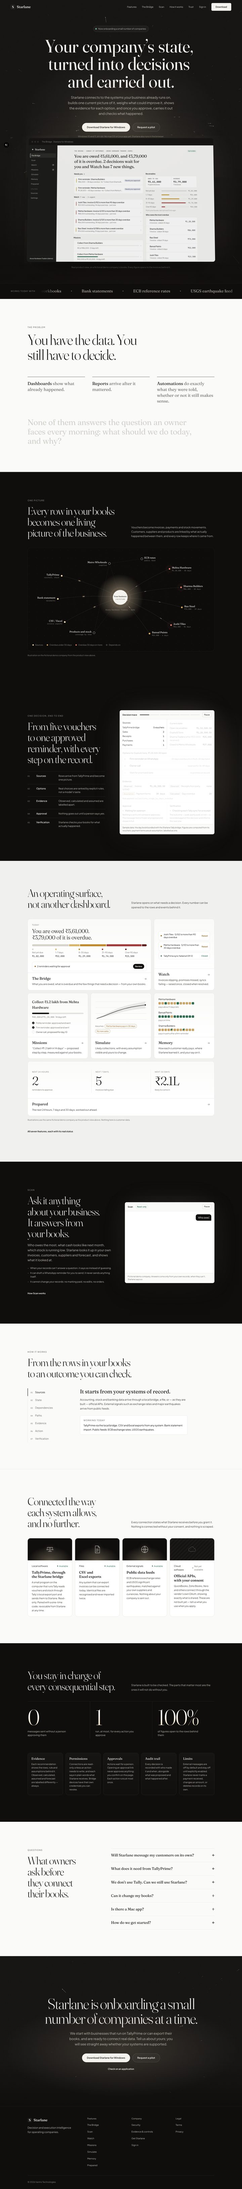
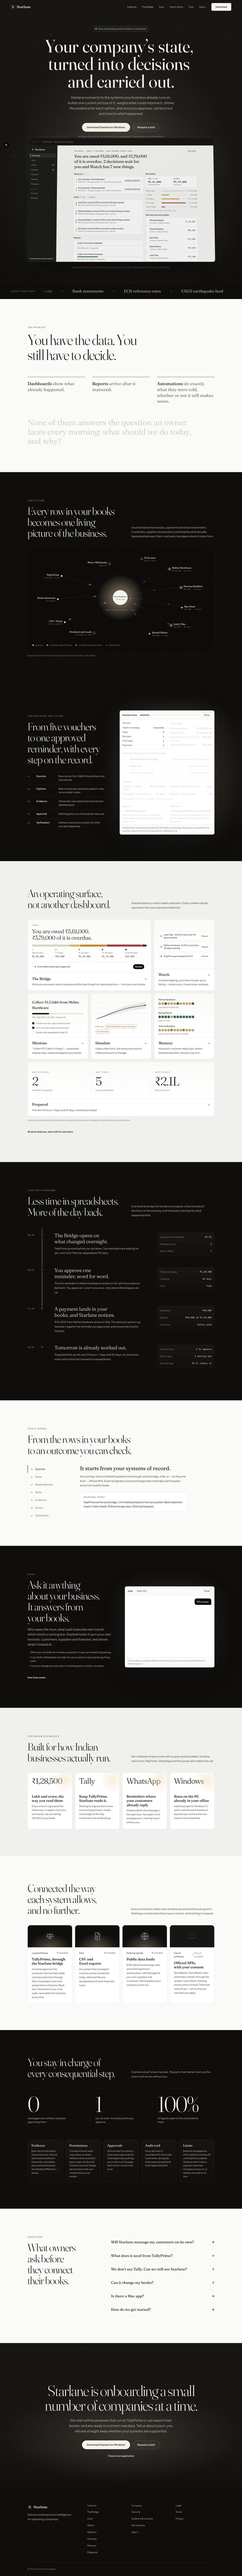
Landing: a day with Starlane, built for Indian businesses, counting trust numbers
Adds an illustrative-day timeline whose spine fills on scroll, a section on
lakh/crore amounts, TallyPrime, WhatsApp and Windows, trust numbers that count
up as they come into view, and a pointer parallax on the hero cards. Moves Scan
after How it works so light and dark sections alternate.

Claude-Session: https://claude.ai/code/session_01JbjFXTHGns6nadKYWs8caj

diff --git a/app/page.tsx b/app/page.tsx
@@ -12,13 +12,15 @@ import { StarField } from "@/components/marketing/landing/StarField";
 import { Reveal } from "@/components/marketing/landing/Reveal";
 import { HeroCards } from "@/components/marketing/landing/HeroCards";
 import { BusinessGraph } from "@/components/marketing/landing/BusinessGraph";
+import { Morning } from "@/components/marketing/landing/Morning";
+import { CountUp } from "@/components/marketing/landing/CountUp";
 import { BridgeViz, WatchViz, MissionsViz, SimulateViz, MemoryViz, PreparedViz } from "@/components/marketing/landing/SurfaceVisuals";
 
-// Starlane — public landing. A dark, cinematic frame (hero, decision, Scan,
-// controls, access) around light working sections (problem, surfaces, how it
-// thinks, connections), one argument throughout:
-//   hero + real product, what it works with, problem, one decision end to end,
-//   surfaces, Scan, how it thinks, connection, trust and control, access.
+// Starlane — public landing. A dark, cinematic frame around light working
+// sections, one argument throughout: hero + real product, what it works with,
+// the problem, one picture of the business, one decision end to end, the
+// surfaces, a day with Starlane, how it thinks, Scan, built for Indian
+// businesses, connection, trust and control, questions, access.
 // Everything shown is either the real product, the real connector list, or
 // sample data that is labelled as such. No logos, testimonials or metrics.
 
@@ -88,12 +90,19 @@ const FAQ = [
   { q: "How do we get started?", a: "Starlane is onboarding a small number of companies at a time, starting with businesses that run on TallyPrime or can export their books. Request a pilot and you will see straight away whether your systems are supported." },
 ];
 
+const INDIA = [
+  { k: "₹1,28,500", h: "Lakh and crore, the way you read them", b: "Every amount is grouped the Indian way, in rupees, from your own books. No converting 128,500 in your head." },
+  { k: "Tally", h: "Keep TallyPrime. Starlane reads it.", b: "Nothing to migrate and no new accounting software. A read-only bridge on the Tally computer is the whole setup." },
+  { k: "WhatsApp", h: "Reminders where your customers already reply", b: "Starlane drafts the message in the right tone. You read it in full and approve it; nothing is sent without you." },
+  { k: "Windows", h: "Runs on the PC already in your office", b: "A desktop app for Windows 10 and 11, and the same Starlane in any browser, so the owner can check in from anywhere." },
+];
+
 const SOURCES = ["TallyPrime", "CSV exports", "Excel workbooks", "Bank statements", "ECB reference rates", "USGS earthquake feed", "WhatsApp drafts, sent only on approval", "Purchase history", "Stock and products"];
 
 const PROMISES = [
-  { n: "0", l: "messages sent without a person approving them" },
-  { n: "1", l: "run, at most, for every action you approve" },
-  { n: "100%", l: "of figures open to the rows behind them" },
+  { n: 0, s: "", l: "messages sent without a person approving them" },
+  { n: 1, s: "", l: "run, at most, for every action you approve" },
+  { n: 100, s: "%", l: "of figures open to the rows behind them" },
 ];
 
 const CONNECT_ICONS: Record<string, React.ReactNode> = {
@@ -168,7 +177,7 @@ export default function LandingPage() {
           </div>
         </section>
 
-        {/* 3b — One picture of the business */}
+        {/* 4 — One picture of the business */}
         <section className="sl-dark slh-section slh-graph" aria-labelledby="graph-h">
           <div className="sl-wrap">
             <div className="sl-split-head" data-reveal>
@@ -183,7 +192,7 @@ export default function LandingPage() {
           </div>
         </section>
 
-        {/* 4 — One decision, end to end */}
+        {/* 5 — One decision, end to end */}
         <section className="sl-dark slh-section slh-decision" aria-labelledby="decision-h">
           <div className="slh-glow" aria-hidden />
           <div className="sl-wrap slh-split">
@@ -202,7 +211,7 @@ export default function LandingPage() {
           </div>
         </section>
 
-        {/* 5 — The surfaces */}
+        {/* 6 — The surfaces */}
         <section id="product" className="sl-section slh-surfaces" aria-labelledby="product-h">
           <div className="sl-wrap">
             <div className="sl-split-head" data-reveal>
@@ -229,7 +238,30 @@ export default function LandingPage() {
           </div>
         </section>
 
-        {/* 6 — Scan */}
+        {/* 7 — A day with Starlane */}
+        <section className="sl-dark slh-section slh-morning" aria-labelledby="morning-h">
+          <div className="sl-wrap">
+            <div className="sl-split-head" data-reveal>
+              <div>
+                <p className="sl-eyebrow">A day with Starlane</p>
+                <h2 id="morning-h" className="slh-h2">Less time in spreadsheets. More of the day back.</h2>
+              </div>
+              <p className="sl-p">One illustrative day for the demo company: a few minutes of decisions in the morning, and the books checked for what happened after.</p>
+            </div>
+            <Morning />
+          </div>
+        </section>
+
+        {/* 8 — How Starlane thinks */}
+        <section id="how" className="sl-section" aria-labelledby="how-h">
+          <div className="sl-wrap">
+            <p className="sl-eyebrow" data-reveal>How it works</p>
+            <h2 id="how-h" className="slh-h2" style={{ maxWidth: 820, marginBottom: 56 }} data-reveal>From the rows in your books to an outcome you can check.</h2>
+            <div data-reveal><HowItThinks /></div>
+          </div>
+        </section>
+
+        {/* 9 — Scan */}
         <section id="ask" className="sl-dark slh-section" aria-labelledby="ask-h">
           <div className="sl-wrap sl-ask-split">
             <div data-reveal>
@@ -250,16 +282,29 @@ export default function LandingPage() {
           </div>
         </section>
 
-        {/* 7 — How Starlane thinks */}
-        <section id="how" className="sl-section" aria-labelledby="how-h">
+        {/* 10 — Built for Indian businesses */}
+        <section className="sl-section slh-india" aria-labelledby="india-h">
           <div className="sl-wrap">
-            <p className="sl-eyebrow" data-reveal>How it works</p>
-            <h2 id="how-h" className="slh-h2" style={{ maxWidth: 820, marginBottom: 56 }} data-reveal>From the rows in your books to an outcome you can check.</h2>
-            <div data-reveal><HowItThinks /></div>
+            <div className="sl-split-head" data-reveal>
+              <div>
+                <p className="sl-eyebrow">For Indian businesses</p>
+                <h2 id="india-h" className="slh-h2">Built for how Indian businesses actually run.</h2>
+              </div>
+              <p className="sl-p">Not a Western finance suite with a rupee symbol added. Starlane starts from TallyPrime, WhatsApp and the owner who makes the call.</p>
+            </div>
+            <ul className="slh-india-grid">
+              {INDIA.map((x) => (
+                <li key={x.h} className="slh-india-tile" data-reveal>
+                  <span className="slh-india-k" aria-hidden>{x.k}</span>
+                  <h3 className="sl-h3">{x.h}</h3>
+                  <p className="sl-p">{x.b}</p>
+                </li>
+              ))}
+            </ul>
           </div>
         </section>
 
-        {/* 8 — Connection */}
+        {/* 11 — Connection */}
         <section id="connect" className="sl-section slh-connect" aria-labelledby="connect-h">
           <div className="sl-wrap">
             <div className="sl-split-head" data-reveal>
@@ -284,7 +329,7 @@ export default function LandingPage() {
           </div>
         </section>
 
-        {/* 9 — Trust and control */}
+        {/* 12 — Trust and control */}
         <section id="trust" className="sl-dark slh-section slh-trust" aria-labelledby="trust-h">
           <div className="sl-wrap">
             <div className="sl-split-head" data-reveal>
@@ -293,7 +338,7 @@ export default function LandingPage() {
             </div>
             <ul className="slh-promises">
               {PROMISES.map((p) => (
-                <li key={p.l} data-reveal><span className="slh-promise-n">{p.n}</span><span className="slh-promise-l">{p.l}</span></li>
+                <li key={p.l} data-reveal><span className="slh-promise-n"><CountUp to={p.n} suffix={p.s} /></span><span className="slh-promise-l">{p.l}</span></li>
               ))}
             </ul>
             <div className="slh-controls">
@@ -304,7 +349,7 @@ export default function LandingPage() {
           </div>
         </section>
 
-        {/* 9b — Questions */}
+        {/* 13 — Questions */}
         <section id="faq" className="sl-section slh-faq" aria-labelledby="faq-h">
           <div className="sl-wrap slh-faq-grid">
             <div data-reveal>
@@ -322,7 +367,7 @@ export default function LandingPage() {
           </div>
         </section>
 
-        {/* 10 — Access */}
+        {/* 14 — Access */}
         <section className="sl-dark slh-final" aria-labelledby="access-h">
           <div className="slh-sky" aria-hidden>
             <StarField density={0.7} horizon={0.6} />

diff --git a/app/home.css b/app/home.css
@@ -384,6 +384,51 @@
   .sl-home .slh-scrub { animation: none !important; color: var(--sl-ink); }
 }
 
+
+/* ── Third pass ───────────────────────────────────────────────── */
+/* Hero parallax: the floating cards drift against the pointer. */
+.slh-cards { transform: translate3d(calc(var(--px, 0) * -18px), calc(var(--py, 0) * -12px), 200px); transition: transform .6s var(--sl-ease); }
+
+/* A day with Starlane: a timeline whose spine fills as you scroll. */
+.slm { list-style: none; margin: 0; padding: 0; position: relative; }
+.slm::before, .slm::after { content: ""; position: absolute; left: 86px; top: 10px; bottom: 10px; width: 1px; background: var(--sl-line); }
+.slm::after { background: linear-gradient(to bottom, #f4dcb5, #F5F3EE); transform-origin: top; transform: scaleY(1); box-shadow: 0 0 12px #f4dcb5aa; }
+@supports (animation-timeline: view()) {
+  .sl-home .slm::after { animation: slm-fill linear both; animation-timeline: view(); animation-range: cover 15% cover 70%; }
+}
+@keyframes slm-fill { from { transform: scaleY(0); } to { transform: scaleY(1); } }
+.slm-item { display: grid; grid-template-columns: 64px minmax(0, 1fr) minmax(0, 340px); gap: 0 clamp(32px, 5vw, 72px); padding: 34px 0; position: relative; align-items: start; }
+.slm-item + .slm-item { border-top: 1px solid #ffffff0c; }
+.slm-item::before { content: ""; position: absolute; left: 81px; top: 42px; width: 11px; height: 11px; border-radius: 50%; background: #0F0E0D; border: 1.5px solid #f4dcb5; z-index: 1; box-shadow: 0 0 0 5px #0F0E0D; }
+.slm-time { font-size: 13px; color: var(--sl-ink-faint); padding-top: 6px; }
+.slm-copy { padding-left: 24px; }
+.slm-h { font-family: var(--sl-serif); font-weight: 300; font-size: clamp(22px, 2.2vw, 30px); line-height: 1.2; letter-spacing: -0.015em; margin: 0 0 10px; color: var(--sl-ink); }
+.slm-copy .sl-p { margin: 0; max-width: 520px; }
+.slm-ui { margin: 0; border: 1px solid #ffffff14; border-radius: 14px; padding: 6px 16px; background: linear-gradient(180deg, #ffffff0a, #ffffff03); }
+.slm-ui > div { display: flex; justify-content: space-between; gap: 12px; padding: 10px 0; font-size: 13px; }
+.slm-ui > div + div { border-top: 1px solid #ffffff0f; }
+.slm-ui dt { color: var(--sl-ink-faint); }
+.slm-ui dd { margin: 0; color: var(--sl-ink); }
+
+/* Built for Indian businesses. */
+.slh-india { background: var(--sl-bg-sunk); }
+.slh-india-grid { list-style: none; margin: 0; padding: 0; display: grid; grid-template-columns: repeat(4, minmax(0, 1fr)); gap: 16px; }
+.slh-india-tile { border: 1px solid var(--sl-line); border-radius: 18px; padding: 26px 24px 28px; background: var(--sl-bg-raised); position: relative; overflow: hidden; }
+.slh-india-k { display: block; font-family: var(--sl-serif); font-weight: 300; font-size: clamp(34px, 3.2vw, 48px); letter-spacing: -0.03em; line-height: 1; margin-bottom: 56px; color: var(--sl-ink); }
+.slh-india-tile::before { content: ""; position: absolute; right: -40px; top: -40px; width: 160px; height: 160px; border-radius: 50%; background: radial-gradient(circle, #f4dcb5 0%, transparent 70%); opacity: .5; }
+.slh-india-tile .sl-h3 { margin: 0 0 8px; }
+.slh-india-tile .sl-p { margin: 0; font-size: 14px; }
+
+@media (max-width: 1080px) { .slh-india-grid { grid-template-columns: repeat(2, minmax(0, 1fr)); } }
+@media (max-width: 860px) {
+  .slm::before, .slm::after { left: 5px; }
+  .slm-item { grid-template-columns: minmax(0, 1fr); padding: 26px 0 26px 30px; row-gap: 12px; }
+  .slm-item::before { left: 0; top: 30px; }
+  .slm-copy { padding-left: 0; }
+  .slm-time { padding-top: 0; }
+}
+@media (max-width: 560px) { .slh-india-grid { grid-template-columns: minmax(0, 1fr); } }
+
 /* ── Responsive ───────────────────────────────────────────────── */
 @media (max-width: 1080px) {
   .slh-controls { grid-template-columns: repeat(2, minmax(0, 1fr)); }

diff --git a/components/marketing/landing/Morning.tsx b/components/marketing/landing/Morning.tsx
@@ -1,0 +1,49 @@
+// "A morning with Starlane": one illustrative day for the demo company, told
+// as a timeline whose spine fills as you scroll. Figures match the product
+// screenshot and the rest of the page; the section caption says it is a demo.
+
+const MOMENTS = [
+  {
+    t: "08:00",
+    h: "The Bridge opens on what changed overnight.",
+    b: "TallyPrime synced before you sat down. Two reminders are waiting for you, and Joshi Tiles has slipped past 90 days.",
+    ui: [["Synced from TallyPrime", "07:52"], ["Waiting for you", "2"], ["New in Watch", "7"]],
+  },
+  {
+    t: "08:04",
+    h: "You approve one reminder, word for word.",
+    b: "The firm reminder to Mehta Hardware is shown in full, with the evidence behind it. You approve it, and it runs once, only where WhatsApp is set up.",
+    ui: [["Mehta Hardware", "₹1,28,500"], ["Overdue", "45 days"], ["Tone", "Firm"]],
+  },
+  {
+    t: "11:40",
+    h: "A payment lands in your books, and Starlane notices.",
+    b: "₹40,000 from Mehta Hardware arrives in Tally. The next sync picks it up, records it against the reminder you approved, and moves the mission forward.",
+    ui: [["Received", "₹40,000"], ["Mission", "₹40,000 of ₹1,20,000"], ["Outcome", "Partly paid"]],
+  },
+  {
+    t: "18:30",
+    h: "Tomorrow is already worked out.",
+    b: "Prepared lines up the next 24 hours, 7 days and 30 days, so tomorrow starts with a short list instead of a spreadsheet.",
+    ui: [["Next 24 hours", "2 to approve"], ["Next 7 days", "5 falling due"], ["Next 30 days", "₹2.1L likely in"]],
+  },
+];
+
+export function Morning() {
+  return (
+    <ol className="slm">
+      {MOMENTS.map((m) => (
+        <li key={m.t} className="slm-item" data-reveal>
+          <span className="slm-time sl-num">{m.t}</span>
+          <div className="slm-copy">
+            <h3 className="slm-h">{m.h}</h3>
+            <p className="sl-p">{m.b}</p>
+          </div>
+          <dl className="slm-ui" aria-label={`At ${m.t}`}>
+            {m.ui.map(([k, v]) => <div key={k}><dt>{k}</dt><dd className="sl-num">{v}</dd></div>)}
+          </dl>
+        </li>
+      ))}
+    </ol>
+  );
+}

diff --git a/components/marketing/landing/CountUp.tsx b/components/marketing/landing/CountUp.tsx
@@ -1,0 +1,39 @@
+"use client";
+import { useEffect, useRef, useState } from "react";
+
+// A big number that counts up once when it scrolls into view. The final value
+// is server-rendered, so it reads correctly without JavaScript, for screen
+// readers, and under prefers-reduced-motion.
+export function CountUp({ to, suffix = "", ms = 1400 }: { to: number; suffix?: string; ms?: number }) {
+  const ref = useRef<HTMLSpanElement>(null);
+  const [v, setV] = useState(to);
+
+  useEffect(() => {
+    const el = ref.current;
+    if (!el || to === 0 || typeof IntersectionObserver === "undefined") return;
+    if (window.matchMedia("(prefers-reduced-motion: reduce)").matches) return;
+    if (el.getBoundingClientRect().top < window.innerHeight) return;
+    setV(0);
+    let raf = 0;
+    const io = new IntersectionObserver(([e]) => {
+      if (!e.isIntersecting) return;
+      io.disconnect();
+      const t0 = performance.now();
+      const tick = (t: number) => {
+        const p = Math.min(1, (t - t0) / ms);
+        setV(Math.round(to * (1 - Math.pow(1 - p, 3))));
+        if (p < 1) raf = requestAnimationFrame(tick);
+      };
+      raf = requestAnimationFrame(tick);
+    }, { threshold: 0.6 });
+    io.observe(el);
+    return () => { io.disconnect(); cancelAnimationFrame(raf); };
+  }, [to, ms]);
+
+  return (
+    <span ref={ref}>
+      <span aria-hidden>{v}{suffix}</span>
+      <span style={{ position: "absolute", width: 1, height: 1, overflow: "hidden", clip: "rect(0 0 0 0)", whiteSpace: "nowrap" }}>{to}{suffix}</span>
+    </span>
+  );
+}

diff --git a/components/marketing/landing/Reveal.tsx b/components/marketing/landing/Reveal.tsx
@@ -35,7 +35,15 @@ export function Reveal() {
       card.style.setProperty("--my", `${e.clientY - r.top}px`);
     };
     root.addEventListener("pointermove", spot, { passive: true });
-    return () => { io.disconnect(); root.removeEventListener("pointermove", spot); };
+    // Hero cards drift a little against the pointer.
+    const hero = root.querySelector<HTMLElement>(".slh-hero");
+    const drift = (e: PointerEvent) => {
+      if (!hero) return;
+      hero.style.setProperty("--px", ((e.clientX / window.innerWidth) * 2 - 1).toFixed(3));
+      hero.style.setProperty("--py", ((e.clientY / window.innerHeight) * 2 - 1).toFixed(3));
+    };
+    hero?.addEventListener("pointermove", drift, { passive: true });
+    return () => { io.disconnect(); root.removeEventListener("pointermove", spot); hero?.removeEventListener("pointermove", drift); };
   }, []);
   return null;
 }
